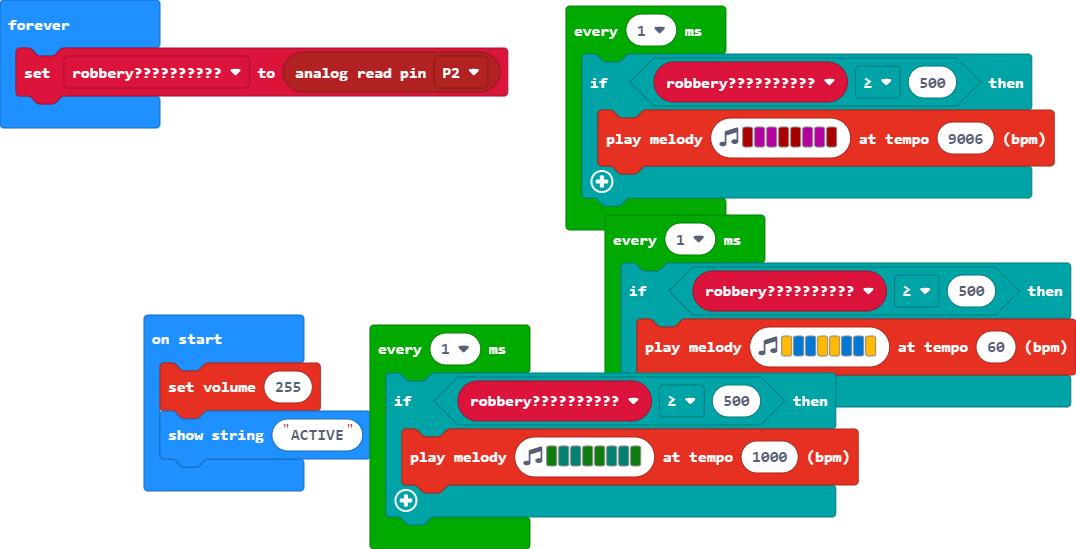
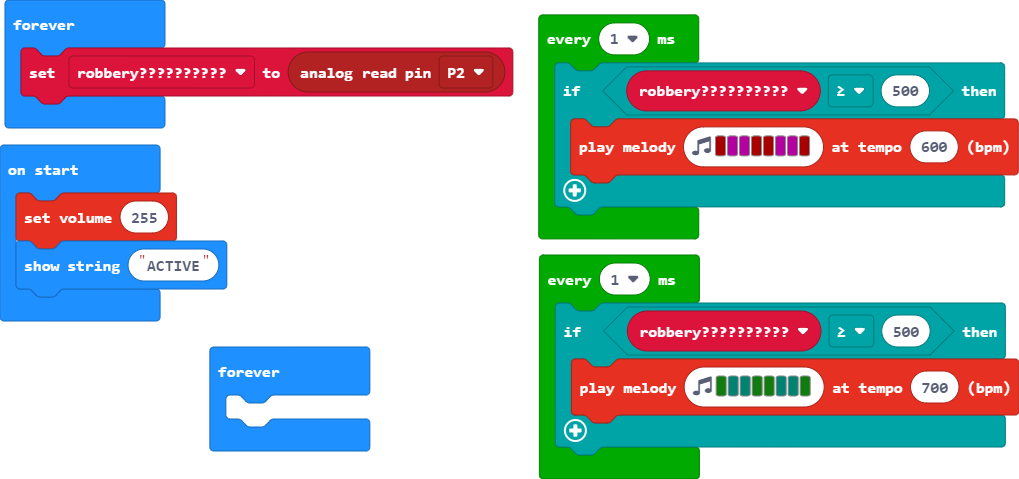
Update main.blocks, main.ts

diff --git a/main.ts b/main.ts
@@ -3,19 +3,17 @@ music.setVolume(255)
 basic.showString("ACTIVE")
 loops.everyInterval(1, function () {
     if (robbery >= 500) {
-        music.playMelody("C5 C C C5 C5 C C C5 ", 9006)
+        music.playMelody("C5 C C C5 C5 C C C5 ", 600)
     }
 })
 loops.everyInterval(1, function () {
     if (robbery >= 500) {
-        music.playMelody("A E E A A E E A ", 60)
-    }
-})
-loops.everyInterval(1, function () {
-    if (robbery >= 500) {
-        music.playMelody("G F F G G F F G ", 1000)
+        music.playMelody("G F F G G F F G ", 700)
     }
 })
 basic.forever(function () {
     robbery = pins.analogReadPin(AnalogPin.P2)
+})
+basic.forever(function () {
+	
 })
